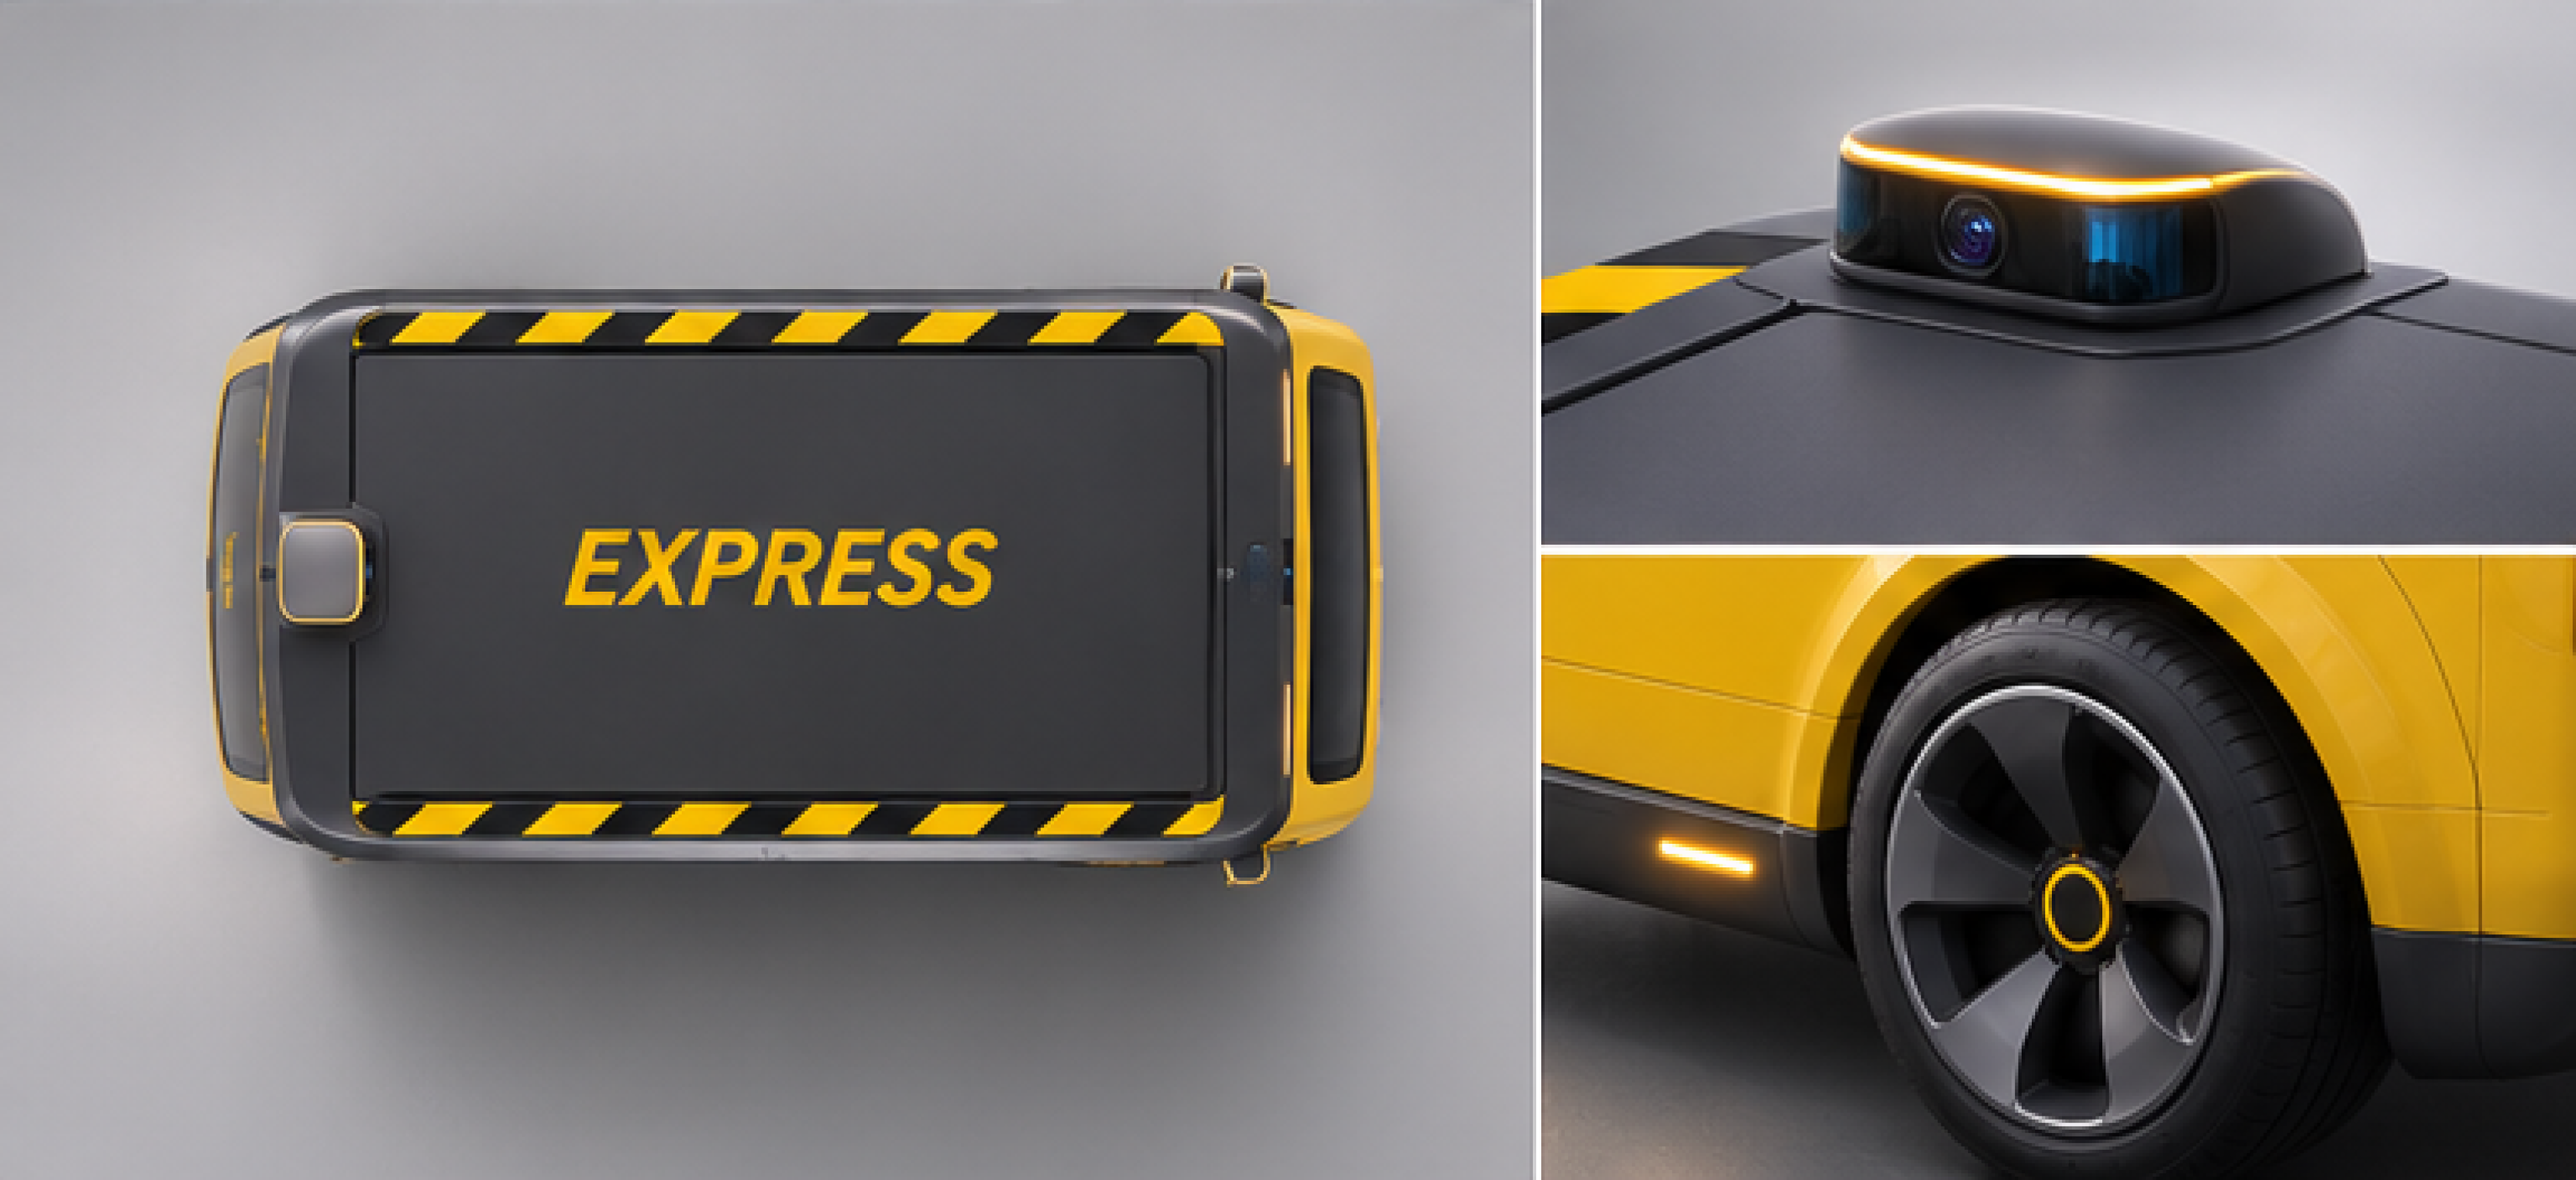
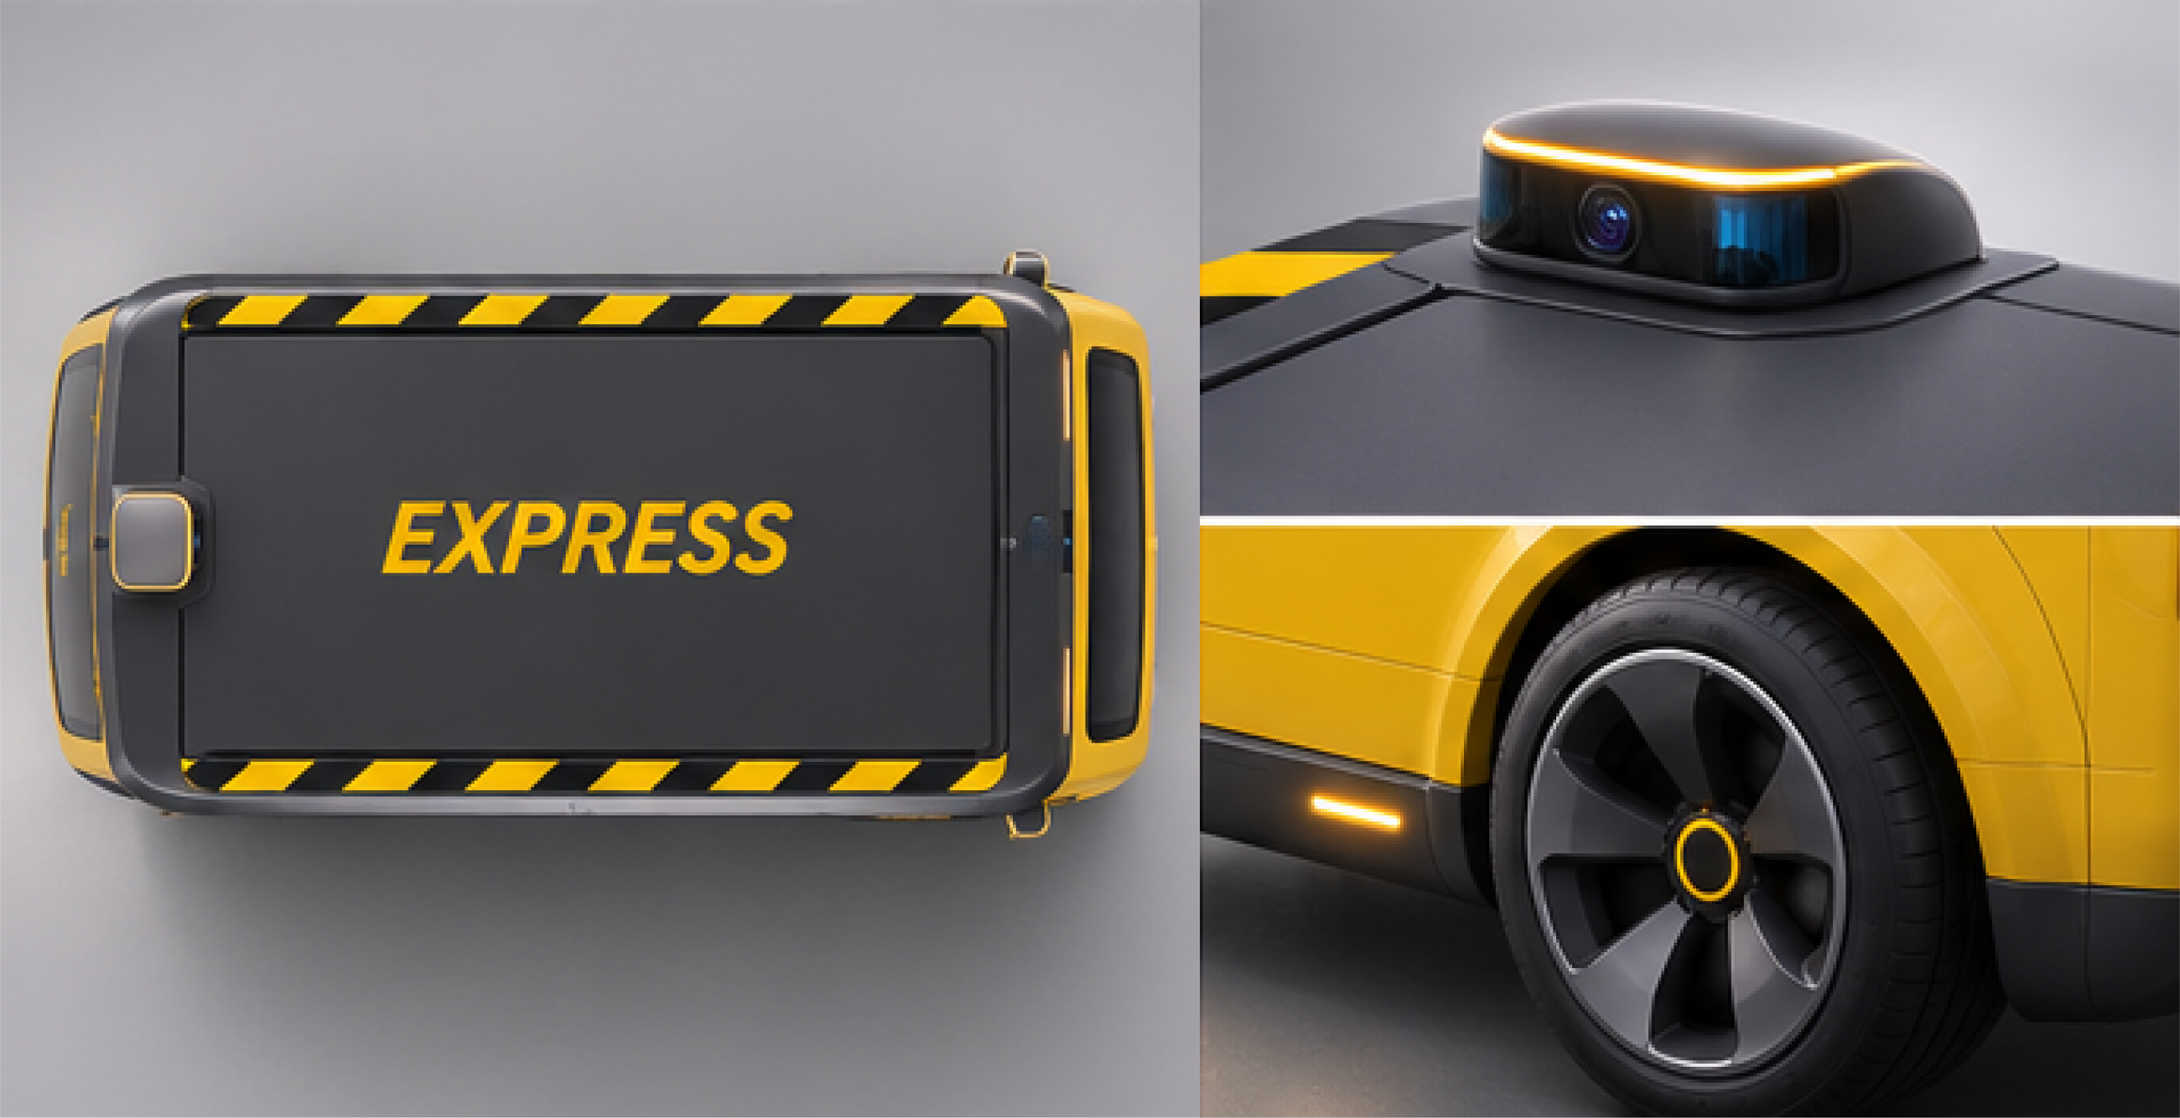
Correct autonomous delivery prototype visuals

Changed region(s): [[0.0, 0.0, 0.9658, 1.0], [0.9969, 0.461, 1.0, 1.0], [0.9346, 0.2766, 0.9658, 0.3073]]

diff --git a/src/ResearchProject.vue b/src/ResearchProject.vue
@@ -134,7 +134,10 @@
 
       <section><div class="section-shell editorial-section">
         <header class="section-heading"><p class="kicker">Prototype Development · Design Framework &amp; Iteration</p><h2>Translating social findings into a new vehicle concept</h2></header>
-        <figure class="evidence-figure concept-figure"><img :src="asset('delivery-concept-full.png')" alt="Autonomous delivery vehicle concept shown in perspective, rear, and side views" /></figure>
+        <div class="evidence-gallery evidence-gallery--concept" aria-label="Autonomous delivery vehicle concept views">
+          <figure><img :src="asset('delivery-concept-full.png')" alt="Autonomous delivery vehicle concept shown in perspective, rear, and side views" /></figure>
+          <figure><img :src="asset('delivery-concept-details.png')" alt="Autonomous delivery vehicle roof, sensor, and wheel details" /></figure>
+        </div>
       </div></section>
 
       <section class="section-surface"><div class="section-shell editorial-section">
@@ -262,13 +265,14 @@ figure img { width: 100%; display: block; }
 .evidence-gallery--behavior,
 .evidence-gallery--requirements,
 .evidence-gallery--scenarios,
-.evidence-gallery--stimuli { grid-template-columns: repeat(2, minmax(0, 1fr)); }
+.evidence-gallery--stimuli,
+.evidence-gallery--concept { grid-template-columns: repeat(2, minmax(0, 1fr)); }
 .evidence-gallery--hardware img { aspect-ratio: 1.85 / 1; object-fit: contain; background: #fff; }
 .evidence-gallery--behavior img { height: min(72vw, 920px); object-fit: contain; object-position: top center; background: #0b0f14; }
 .evidence-gallery--requirements img { aspect-ratio: 1.78 / 1; object-fit: contain; background: #0b0f14; }
 .evidence-gallery--scenarios img { aspect-ratio: 1.72 / 1; }
 .evidence-gallery--stimuli img { aspect-ratio: 1.72 / 1; }
-.concept-figure img { aspect-ratio: 2.45 / 1; object-fit: contain; background: #d9d9d9; }
+.evidence-gallery--concept img { aspect-ratio: 2 / 1; object-fit: contain; background: #d9d9d9; }
 .expression-display img { aspect-ratio: 1.92 / 1; object-fit: contain; background: #0b0f14; }
 
 .method-ledger { grid-column: 1 / -1; border-block: 1px solid var(--research-line); }
@@ -430,6 +434,7 @@ figure img { width: 100%; display: block; }
   .evidence-gallery--requirements,
   .evidence-gallery--scenarios,
   .evidence-gallery--stimuli,
+  .evidence-gallery--concept,
   .stimulus-grid,
   .insight-grid { grid-template-columns: 1fr; }
   .stimulus-scenario + .stimulus-scenario { border-left: 0; border-top: 1px solid var(--research-line); }
